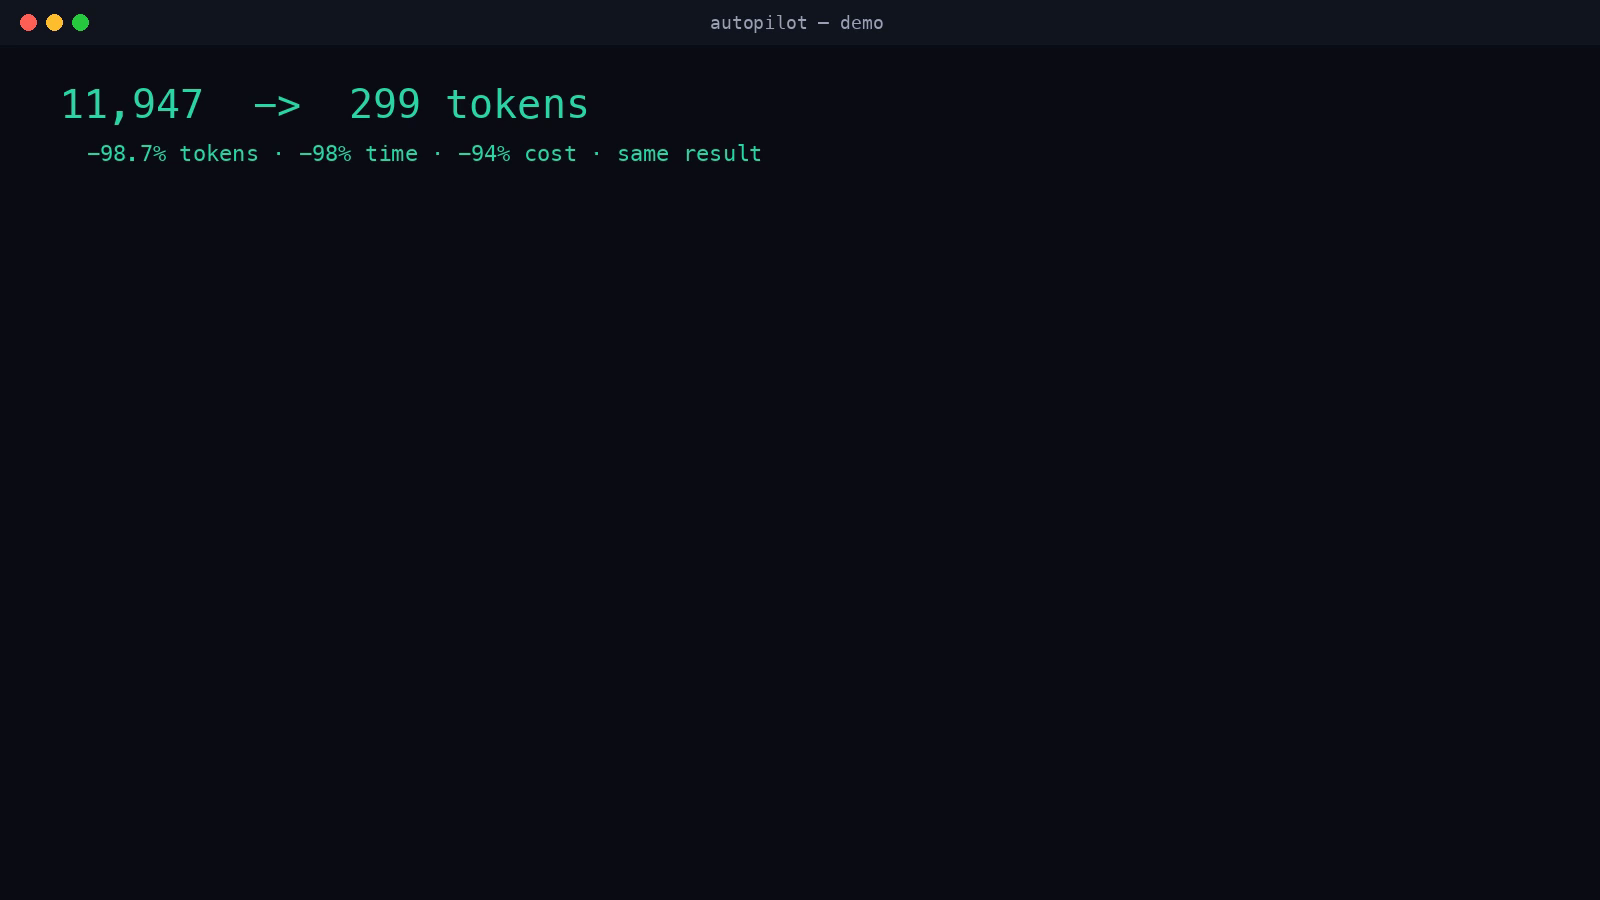
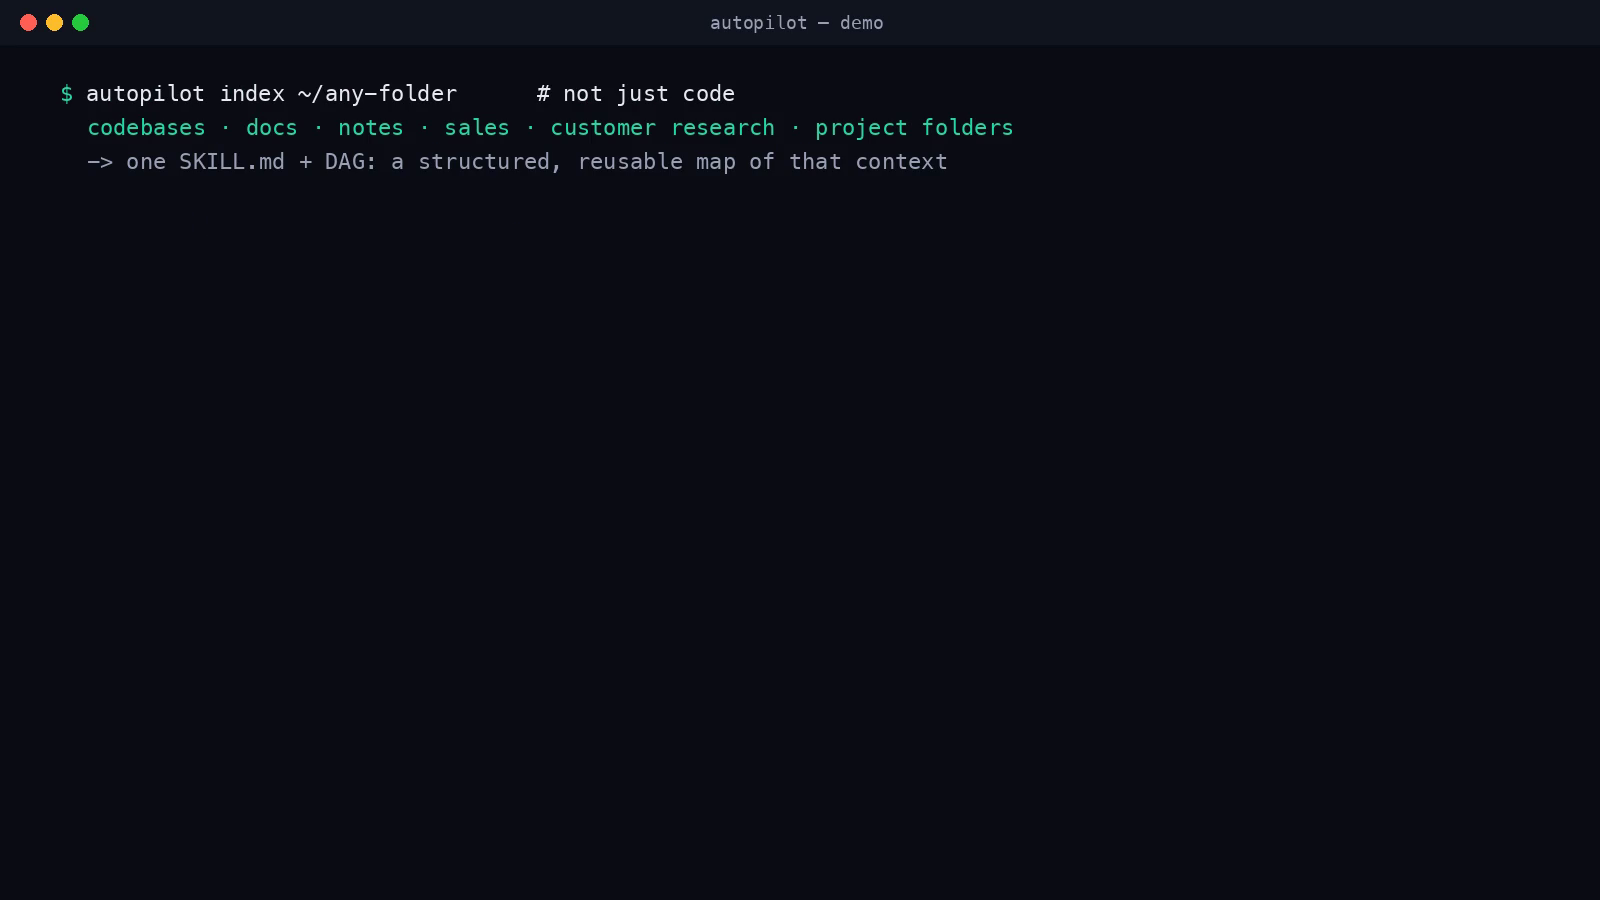
Reframe: modular reusable context for any local agent (Hermes/OpenClaw), not just code

Changed region(s): [[0.0312, 0.0933, 0.625, 0.1867]]

diff --git a/demo/make_video.py b/demo/make_video.py
@@ -26,30 +26,29 @@ small = ImageFont.truetype(MENLO, 18, index=0)
 
 # (kind, text, color). kinds: banner, cmd, out, good, metric, muted, blank
 SCENES = [
-    [("banner", "Stop paying Claude to re-read your repo", TITLE),
-     ("muted", "Personal Coding Model Autopilot — local-first repo context, $0", OUT),
+    [("banner", "Index once. Every agent reuses it.", TITLE),
+     ("muted", "Personal Coding Model Autopilot — reusable context for local agents", OUT),
      ("blank", "", OUT)],
-    # the pain
+    # the problem (Hermes / OpenClaw / any agent)
     [("banner", "The problem", TITLE),
-     ("out", "  Your repo is 359 KB  ~  90,000 tokens.", OUT),
-     ("warn", "  Claude Code re-discovers that structure every session — grep, read, repeat.", ORANGE),
-     ("muted", "  On agent/metered billing you pay frontier prices to relearn what you already know.", OUT)],
-    # the real example, side by side
-    [("cmd", "# real task:  \"fix the failing test\"  (same task, two ways)", PROMPT),
-     ("warn", "  NORMAL Claude Code   ->  explores files  ->  11,947 tokens sent to the model", ORANGE),
-     ("good", "  WITH AUTOPILOT      ->  DAG + SKILL.md already map it  ->  299 tokens (right slice)", GOOD),
-     ("muted", "  same patch · tests still pass", OUT)],
-    # the headline number
-    [("banner", "11,947  ->  299 tokens", GOOD),
-     ("metric", "  -98.7% tokens · -98% time · -94% cost · same result", GOOD),
-     ("muted", "  retrieval F1 +0.32 · 1 frontier call avoided", OUT)],
-    # how — the $0 .md + DAG
-    [("cmd", "autopilot index    # the $0 part, runs on every commit", PROMPT),
-     ("out", "  builds .autopilot/SKILL.md + ARCHITECTURE.md (DAG):", OUT),
-     ("out", "  every file, every function, the call graph — kept fresh, locally, for $0", OUT),
-     ("good", "  Claude Code reads THIS saved context, not the whole repo", GOOD)],
-    [("banner", "Built on EverMind + Butterbase  (LIVE)", GOOD),
-     ("blue", "  Butterbase app_b197i2548pk2 · EverMind memory · code build0530", BLUE),
+     ("warn", "  Hermes, OpenClaw, Claude Code rediscover your project every task —", ORANGE),
+     ("warn", "  re-reading the code, docs, and notes they already saw last time.", ORANGE),
+     ("muted", "  a 359 KB project ~ 90,000 tokens, reloaded again and again.", OUT)],
+    # modular: ANY folder, not just code
+    [("cmd", "autopilot index ~/any-folder      # not just code", PROMPT),
+     ("good", "  codebases · docs · notes · sales · customer research · project folders", GOOD),
+     ("out", "  -> one SKILL.md + DAG: a structured, reusable map of that context", OUT)],
+    # reusable memory
+    [("banner", "SKILL.md = the agent's project memory", TITLE),
+     ("good", "  preloaded once, reused across tasks by Hermes / OpenClaw / Claude Code", GOOD),
+     ("muted", "  the agent loads the map instead of re-exploring from scratch", OUT)],
+    # token before/after
+    [("cmd", "# same task, two ways", PROMPT),
+     ("warn", "  NORMAL agent        ->  rediscovers context  ->  11,947 tokens", ORANGE),
+     ("good", "  WITH SAVED CONTEXT  ->  loads SKILL.md / DAG   ->  299 tokens", GOOD),
+     ("metric", "  -98.7% tokens · same result · context preserved", GOOD)],
+    [("banner", "Reusable context for any local agent", GOOD),
+     ("blue", "  Hermes · OpenClaw · Claude Code  ·  EverMind memory + Butterbase (LIVE)", BLUE),
      ("muted", "  github.com/OCWC22/personal-coding-autopilot", OUT)],
 ]
 

diff --git a/demo/make_slides.py b/demo/make_slides.py
@@ -95,17 +95,17 @@ t = tb(s, Inches(0.9), Inches(1.2), Inches(11.6), Inches(1.5))
 txt(t, "Personal Coding Model Autopilot", 38, FG, bold=True)
 txt(t, "William Chen · Touchdown Labs — vendor-neutral inference-optimization research", 17, TEAL, bold=True)
 txt(tb(s, Inches(0.9), Inches(2.75), Inches(11.6), Inches(0.9)),
-    "What I'm building: a local-first coding-agent stack — a $0 model that already knows your repo, plus a personal coding model distilled to your codebase and style.", 16, FG)
+    "What I'm building: a local-first context engine — index ANY folder (code, docs, notes, projects) into reusable structured memory that Hermes, OpenClaw, or any local agent loads instead of rediscovering it every task.", 16, FG)
 pp = panel(s, Inches(0.9), Inches(3.85), Inches(5.7), Inches(2.4), ORANGE)
 tf = pp.text_frame; tf.word_wrap = True; tf.vertical_anchor = MSO_ANCHOR.TOP
 tf.margin_left = Inches(0.28); tf.margin_top = Inches(0.22); tf.margin_right = Inches(0.2)
 txt(tf, "The problem", 18, ORANGE, bold=True)
-txt(tf, "Claude Code re-reads your repo every session — you pay frontier prices to rediscover structure you already have (≈90K tokens to reload a 359 KB repo, every time).", 15, FG)
+txt(tf, "Local agents (Hermes, OpenClaw, Claude Code) rediscover your project every task — code, docs, notes — burning tokens reloading what they already saw (≈90K to reload a 359 KB project).", 15, FG)
 ps = panel(s, Inches(7.0), Inches(3.85), Inches(5.7), Inches(2.4), TEAL)
 tf2 = ps.text_frame; tf2.word_wrap = True; tf2.vertical_anchor = MSO_ANCHOR.TOP
 tf2.margin_left = Inches(0.28); tf2.margin_top = Inches(0.22); tf2.margin_right = Inches(0.2)
 txt(tf2, "The solution", 18, TEAL, bold=True)
-txt(tf2, "Keep a live local map (SKILL.md + DAG) and a small MLX model for the cheap work; escalate to the frontier only for the hard step — ~99% fewer tokens, same result.", 15, FG)
+txt(tf2, "Index it once into a reusable SKILL.md + DAG map. Any local agent reuses it across tasks; a small MLX model does the cheap work, frontier only for the hard step — ~99% fewer tokens.", 15, FG)
 txt(tb(s, Inches(0.9), Inches(6.5), Inches(11.6), Inches(0.5)), "github.com/OCWC22/personal-coding-autopilot", 15, MUTED, bold=True)
 
 # 2 — THE FULL SYSTEM / ARCHITECTURE
@@ -127,15 +127,21 @@ band(s, [
 txt(tb(s, Inches(0.6), Inches(6.35), Inches(12.2), Inches(0.5)),
     "Substrate:  EverMind = long-term memory   ·   Butterbase = state / backend   ·   eval harness = the proof (−98.7% tokens)", 14, MUTED, bold=True)
 
-# 3 — USE CASE
-s = slide(); eyebrow(s, "USE CASE")
-txt(tb(s, Inches(0.6), Inches(1.0), Inches(12), Inches(1)), "You, on a real repo, all day", 32, FG, bold=True)
-tf = tb(s, Inches(0.6), Inches(2.2), Inches(12), Inches(3.5))
-for l in ["Solo founder / small team living in Claude Code or Codex on one codebase.",
-          "Asking codebase questions, fixing tests, scaffolding, refactoring — dozens of times a day.",
-          "Each ask re-pays for repo discovery. The bill compounds outside the model call.",
-          "You want the agent to already know your files, conventions, and prior decisions."]:
-    txt(tf, "•  " + l, 19, FG, space=14)
+# 3 — MODULAR: NOT JUST CODE
+s = slide(); eyebrow(s, "MODULAR — NOT JUST CODE")
+txt(tb(s, Inches(0.6), Inches(1.0), Inches(12.2), Inches(0.8)), "Index anything on your computer", 30, FG, bold=True)
+txt(tb(s, Inches(0.6), Inches(1.72), Inches(12.2), Inches(0.6)),
+    "One CLI turns any folder into reusable structured context (SKILL.md + index) — agents load it instead of re-reading from scratch.", 15, MUTED)
+_domains = [("Codebases", TEAL), ("Docs & notes", BLUE), ("Sales materials", VIOLET),
+            ("Marketing assets", ORANGE), ("Customer research", TEAL), ("Project folders & workflows", BLUE)]
+_gx, _gy, _gw, _gh, _gap = 0.6, 2.5, 3.77, 1.05, 0.4
+for i, (name, col) in enumerate(_domains):
+    r, c = divmod(i, 3)
+    sp = panel(s, Inches(_gx + c * (_gw + _gap)), Inches(_gy + r * (_gh + 0.3)), Inches(_gw), Inches(_gh), col)
+    tfc = sp.text_frame; tfc.vertical_anchor = MSO_ANCHOR.MIDDLE; tfc.word_wrap = True
+    txt(tfc, name, 16, col, bold=True, align=PP_ALIGN.CENTER)
+txt(tb(s, Inches(0.6), Inches(5.5), Inches(12.2), Inches(1)),
+    "Hermes · OpenClaw · Claude Code · any local agent reuse the SAME structured context across tasks — instead of rediscovering everything from scratch every time.", 17, FG, bold=True)
 
 # 4 — THE FIX
 s = slide(); eyebrow(s, "THE FIX")